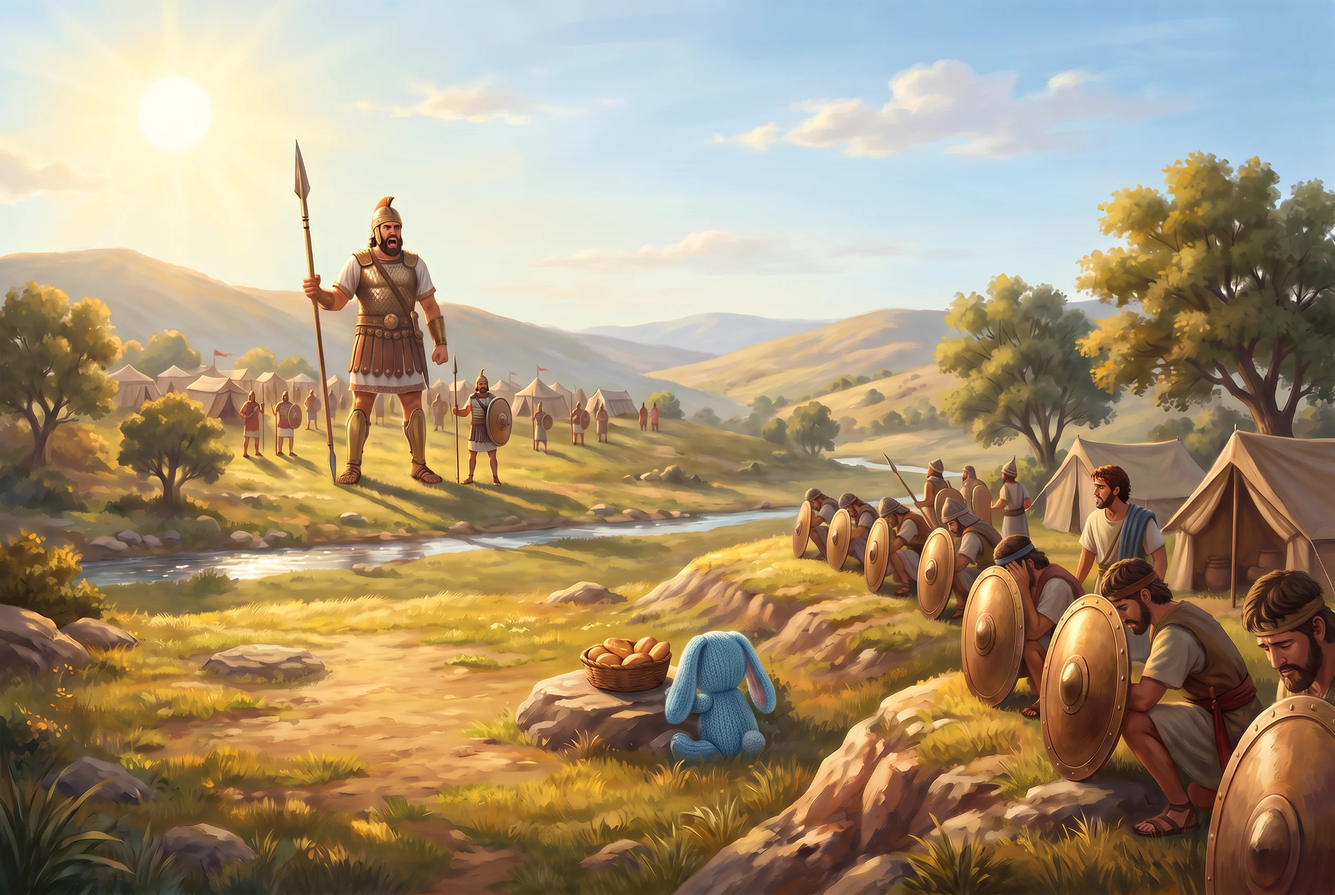
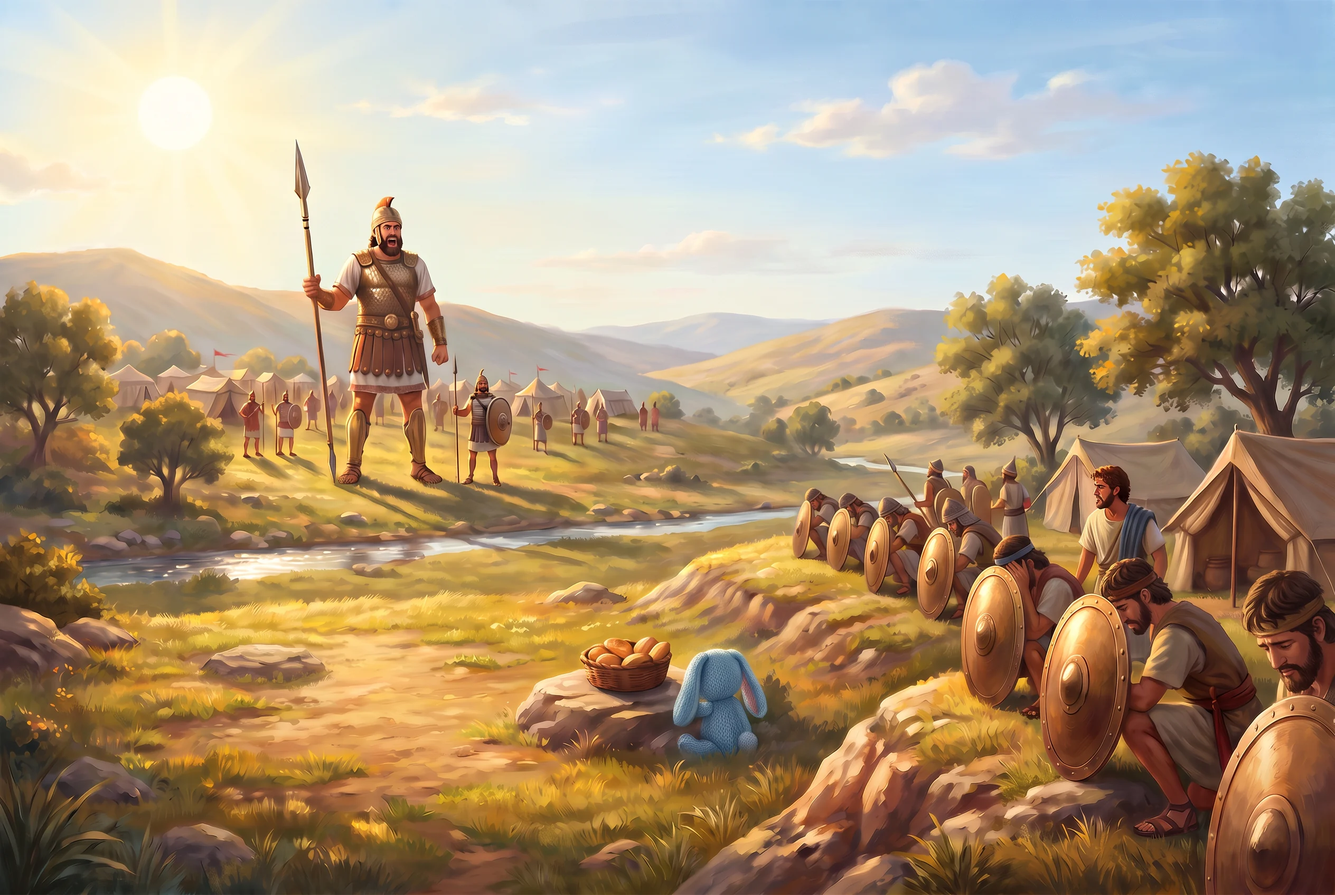
B-BOOK-15: art round 2 imported - import-book-art.py maps plate VERSIONS (PL3-r2b, PL7-r2c ...) onto the book's stable plate ids, skips variant pages (p5-tunic, p9-boom, p8-squat, p8-reach), takes only the latest round's prints and removes stale ones. 8 plates replaced (PL1 <- r2, PL1d <- r2c, PL3 <
(cherry picked from commit accc14ba99c5dad6b8419e898cab0043916bc728)

diff --git a/app/src/components/library/BookReader.test.tsx b/app/src/components/library/BookReader.test.tsx
@@ -258,7 +258,7 @@ describe("real art: prints, shadow + grade, occluder, costume", () => {
     id: "placeholder",
     poses: {},
     base: "/_dev/hero-sheets/placeholder",
-    anchors: { "walk-bag-left": { aspect: 0.5, footX: 0.45, footW: 0.5 } },
+    anchors: { "look-across": { aspect: 0.5, footX: 0.45, footW: 0.5 } },
     prints: { cover: { url: "/_dev/hero-sheets/placeholder/prints/cover.webp", width: 1920, height: 1280 } },
   };
   const withSheet = (state: BookFlowState, extra: Partial<React.ComponentProps<typeof BookReader>> = {}) =>
@@ -275,16 +275,18 @@ describe("real art: prints, shadow + grade, occluder, costume", () => {
     expect(html).not.toContain("data-book-hero");
     const off = withSheet(initialBookFlow(), { prints: false });
     expect(off).not.toContain("prints/cover.webp");
-    expect(off).toContain('src="/_dev/hero-sheets/placeholder/walk-bag-left.webp"');
+    expect(off).toContain('src="/_dev/hero-sheets/placeholder/look-across.webp"');
     expect(off).toContain('data-book-shadow="core"');
     expect(off).toContain('data-book-shadow="spill"');
     // the grade layer is masked by the sprite itself
-    expect(off).toMatch(/bk-hero-tint[^>]*mask-image:url\(&quot;\/_dev\/hero-sheets\/placeholder\/walk-bag-left\.webp/);
+    expect(off).toMatch(/bk-hero-tint[^>]*mask-image:url\(&quot;\/_dev\/hero-sheets\/placeholder\/look-across\.webp/);
   });
 
-  it("p8 draws the water occluder over the hero", () => {
+  it("a plate occluder (a patch of the plate) draws OVER the hero", () => {
     const s = run(...toDecision, { type: "choose", choiceId: "a" }, { type: "go" }, { type: "next" });
-    const html = render(s);
+    const p8 = book.pages.find((p) => p.id === "p8")!;
+    const withOcc = { ...book, pages: book.pages.map((p) => (p.id === "p8" ? { ...p8, occluders: [{ box: [0.4, 0.4, 0.5, 0.5] as [number, number, number, number], opacity: 0.8, feather: 0.01, featherTop: 0.004 }] } : p)) };
+    const html = renderToStaticMarkup(<BookReader book={withOcc} lang="en" child={BOY} onClose={() => {}} dev narration="off" initialState={s} initialBox={WIDE} />);
     expect(pageOf(html)).toBe("p8");
     expect(html).toContain("data-book-occluder");
     expect(html.indexOf("data-book-hero")).toBeLessThan(html.indexOf("data-book-occluder"));

diff --git a/app/src/lib/library/books.test.ts b/app/src/lib/library/books.test.ts
@@ -233,8 +233,9 @@ describe("Five Smooth Stones (the proof) — manuscript specifics", () => {
     // + PL7-dust, registered but unused (the edit re-framed; the dust overlay is used)
     expect(variants).toEqual(["PL1b", "PL1d", "PL3w", "PL4e", "PL7-dust"]);
     const poses = new Set(pagesOf.flatMap((p) => slots(p).map((s) => s.pose)));
-    // the art agent added left-facing poses so the key light stays upper-left (LOG.md §1)
-    expect([...poses].sort()).toEqual(["armour-stuck", "free-stretch", "kneel", "look-up", "run-staff", "run-staff-left", "sit", "sling-swing", "walk-bag-left", "worried"]);
+    // the art agent's poses (LOG.md §1 + Round 2): left-facing variants keep the
+    // key light upper-left; round 2 added look-across (cover), sling-swing-face-right (p9), squat-look (p8)
+    expect([...poses].sort()).toEqual(["armour-stuck", "free-stretch", "look-across", "look-up", "run-staff", "run-staff-left", "sit", "sling-swing", "sling-swing-face-right", "squat-look", "worried"]);
     expect(byId.p5.heroAlt?.tunic?.pose).toBe("worried-tunic");
     expect(Object.keys(getPlate(book.id, "PL4")!.focus ?? {}).sort()).toEqual(["a", "b", "c"]);
   });
@@ -273,7 +274,8 @@ describe("Five Smooth Stones (the proof) — manuscript specifics", () => {
       "sword-heap": { item: "sword", done: true },
       "helmet-heap": { item: "helmet", done: true },
     });
-    expect(byId.p8.occluders).toHaveLength(1);
+    // round 2 restaged p8 (squat-look on the boulder): no hand in the water, no occluder
+    expect(byId.p8.occluders).toBeUndefined();
   });
 
   it("geometry comes from the one geometry object (overwritable JSON)", () => {

diff --git a/app/scripts/import-book-art.py b/app/scripts/import-book-art.py
@@ -19,6 +19,7 @@ Nothing here calls a model or the network.
 """
 import argparse
 import json
+import re
 import shutil
 from pathlib import Path
 
@@ -44,6 +45,25 @@ OVERLAYS_OUT = PLATES_OUT / "overlays"
 SHEET_OUT = APP / "public" / "_dev" / "hero-sheets" / args.sheet
 G = json.load(open(SRC / args.plates, encoding="utf-8"))
 
+# Art rounds add plate VERSIONS (PL3-r2b, PL7-r2c ...). The book keeps stable
+# plate ids (PL3, PL7 ...); the version a page names is shipped under the stable
+# name. Pages whose id carries a suffix (p5-tunic, p9-boom, p8-squat ...) are
+# variants / alternatives, not book pages.
+VERSION = re.compile(r"-r\d+[a-z]?$")
+
+
+def base_plate(pid: str) -> str:
+    return VERSION.sub("", pid)
+
+
+BOOK_PAGES = {k: v for k, v in G["pages"].items() if "-" not in k}
+PLATE_VERSION = {}
+for _pg in BOOK_PAGES.values():
+    PLATE_VERSION[base_plate(_pg["plate"])] = _pg["plate"]
+for _pid in G["plates"]:
+    if base_plate(_pid) == _pid:
+        PLATE_VERSION.setdefault(_pid, _pid)
+
 
 def alpha_meta(path: Path):
     """aspect = w/h of the image; footX = centre of the lowest 6 % of opaque rows (as compose.py
@@ -67,8 +87,12 @@ def assets():
     PLATES_OUT.mkdir(parents=True, exist_ok=True)
     OVERLAYS_OUT.mkdir(parents=True, exist_ok=True)
     SHEET_OUT.mkdir(parents=True, exist_ok=True)
-    for f in sorted((SRC / "app" / "plates").glob("*.webp")):
-        out = PLATES_OUT / f.name
+    for base, version in sorted(PLATE_VERSION.items()):
+        f = SRC / "app" / "plates" / f"{version}.webp"
+        if not f.exists():
+            print("MISSING plate file", f)
+            continue
+        out = PLATES_OUT / f"{base}.webp"
         im = Image.open(f)
         if f.stat().st_size > MAX_BYTES:
             if im.width > MAX_W:
@@ -76,7 +100,7 @@ def assets():
             im.convert("RGB").save(out, "WEBP", quality=84, method=6)
         else:
             shutil.copyfile(f, out)
-        print("plate", f.name, Image.open(out).size, out.stat().st_size)
+        print("plate", base, "<-", f.name, Image.open(out).size, out.stat().st_size)
     for f in sorted((SRC / "app" / "overlays").glob("*.webp")):
         shutil.copyfile(f, OVERLAYS_OUT / f.name)
         print("overlay", f.name, (OVERLAYS_OUT / f.name).stat().st_size)
@@ -96,8 +120,16 @@ def prints():
     out_dir = SHEET_OUT / "prints"
     out_dir.mkdir(parents=True, exist_ok=True)
     found = {}
-    for f in sorted((SRC / "pages").glob("*-print.jpg")):
-        pid = f.stem[: -len("-print")]
+    # the latest round's prints only (a page whose plate changed and was not
+    # re-printed shows the live composite); stale print files are removed
+    files = sorted((SRC / "pages").glob("*-print.jpg"))
+    rounds = sorted({m.group(1) for f in files for m in [re.search(r"-(r\d+)-print$", f.stem)] if m})
+    latest = rounds[-1] if rounds else None
+    files = [f for f in files if (latest and f.stem.endswith(f"-{latest}-print")) or (not latest)]
+    for old in out_dir.glob("*.webp"):
+        old.unlink()
+    for f in files:
+        pid = re.sub(r"(-r\d+)?-print$", "", f.stem)
         im = Image.open(f).convert("RGB")
         im.save(out_dir / f"{pid}.webp", "WEBP", quality=85, method=6)
         found[pid] = {"file": f"prints/{pid}.webp", "w": im.width, "h": im.height}
@@ -123,19 +155,21 @@ def geometry():
     sprite_dir = SRC / "app" / "hero-sheets" / args.sheet
     overlay_dir = SRC / "app" / "overlays"
     plates = {}
-    for pid, p in G["plates"].items():
-        f = PLATES_OUT / f"{pid}.webp"
+    for base, version in PLATE_VERSION.items():
+        p = G["plates"].get(version, {})
+        p0 = G["plates"].get(base, {})
+        f = PLATES_OUT / f"{base}.webp"
         size = Image.open(f).size if f.exists() else (G["master"]["w"], G["master"]["h"])
-        plates[pid] = {
+        plates[base] = {
             "size": {"w": size[0], "h": size[1]},
-            "light": light_of(p.get("light", "")),
-            "provenance": {"childFree": True, "textFree": True, "reviewedBy": "art-agent QC 2026-10-05 (proof-art/david/LOG.md §2); Fable full-size review owed"},
-            **({"variantOf": p["variantOf"]} if p.get("variantOf") else {}),
+            "light": light_of(p.get("light", p0.get("light", ""))),
+            "provenance": {"childFree": True, "textFree": True, "reviewedBy": f"art-agent QC ({version}; proof-art/david/LOG.md); Fable full-size review owed"},
+            **({"variantOf": base_plate(p0["variantOf"])} if p0.get("variantOf") else {}),
         }
     master_w, master_h = G["master"]["w"], G["master"]["h"]
 
     def plate_tint(plate_id, box):
-        f = PLATES_OUT / f"{plate_id}.webp"
+        f = PLATES_OUT / f"{base_plate(plate_id)}.webp"
         im = Image.open(f).convert("RGB")
         sx, sy = im.width, im.height
         x0, y0, x1, y1 = [max(0.0, min(1.0, v)) for v in box]
@@ -181,11 +215,9 @@ def geometry():
         return oid, o
 
     pages = {}
-    for pid, p in G["pages"].items():
-        if pid in ("p5-tunic", "p9-boom"):
-            continue
+    for pid, p in BOOK_PAGES.items():
         heroes = [l for l in p.get("layers", []) if "sprites/keyed" in l.get("file", "")]
-        g = {"plate": p["plate"], "phoneCrop": r4(p["window_cx"])}
+        g = {"plate": base_plate(p["plate"]), "phoneCrop": r4(p["window_cx"])}
         if p.get("text_zone"):
             g["textRect"] = [r4(v) for v in p["text_zone"]]
         if heroes:
@@ -194,7 +226,7 @@ def geometry():
         if occ:
             g["occluders"] = [{"box": [r4(v) for v in o["box"]], "opacity": r4(o.get("opacity", 0.85)), "feather": r4(o.get("feather", 0.012)), "featherTop": r4(o.get("feather_top", 0.004))} for o in occ]
         if p.get("focus_rects"):
-            plates[p["plate"]]["focus"] = {k.split("_")[0]: {"x": r4(r[0]), "y": r4(r[1]), "w": r4(r[2] - r[0]), "h": r4(r[3] - r[1])} for k, r in p["focus_rects"].items()}
+            plates[base_plate(p["plate"])]["focus"] = {k.split("_")[0]: {"x": r4(r[0]), "y": r4(r[1]), "w": r4(r[2] - r[0]), "h": r4(r[3] - r[1])} for k, r in p["focus_rects"].items()}
         ovs = {}
         for l in p.get("layers", []):
             if "overlays/keyed" in l.get("file", ""):
